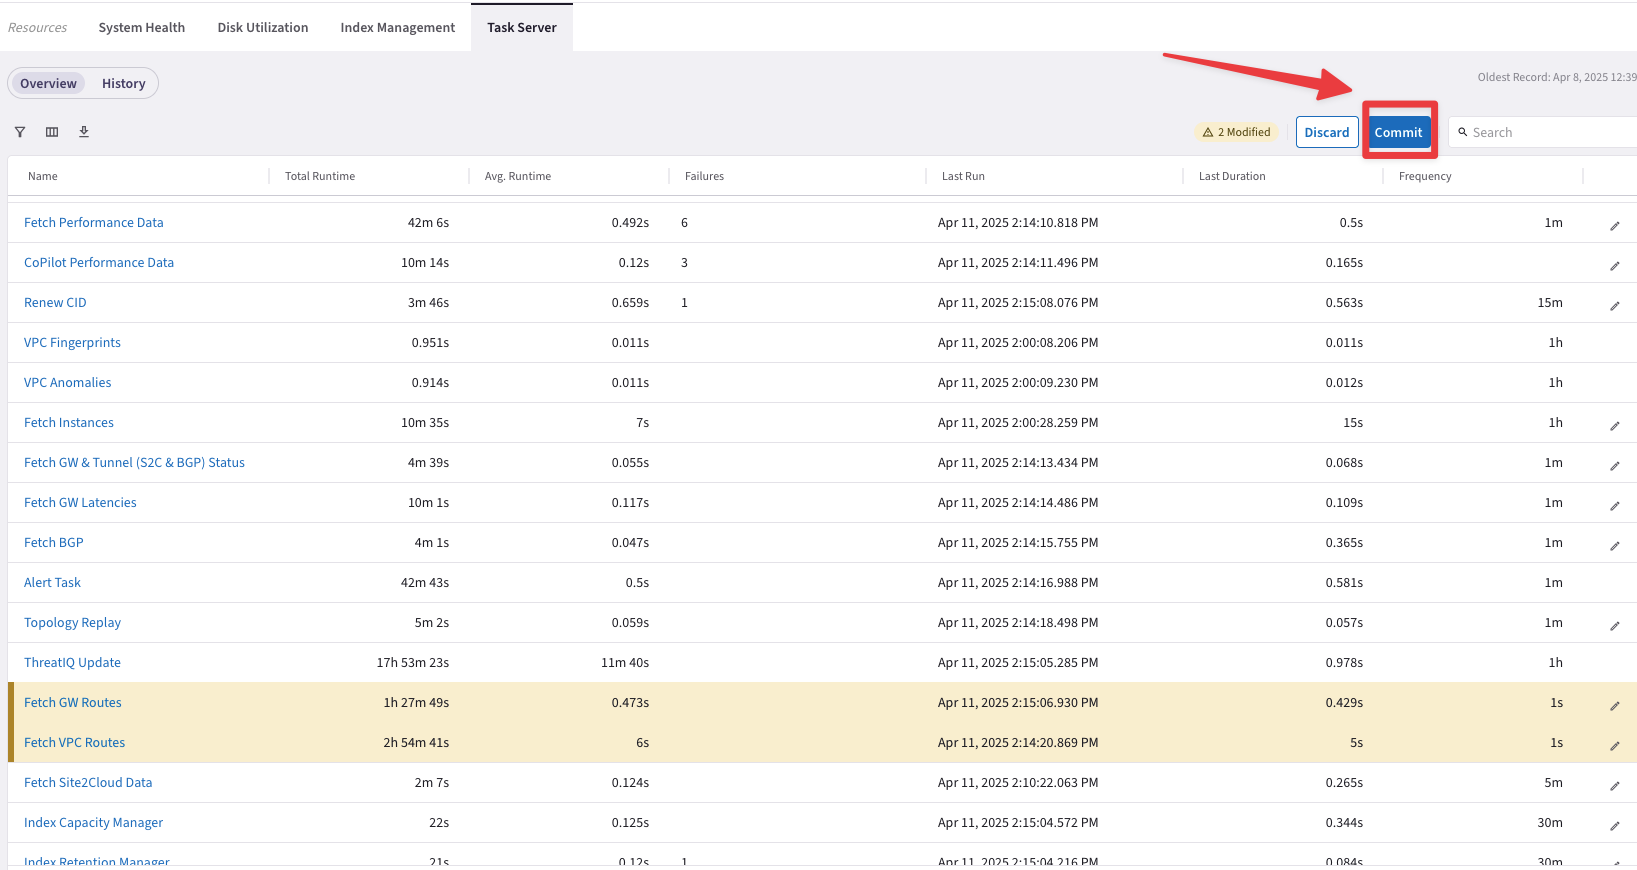
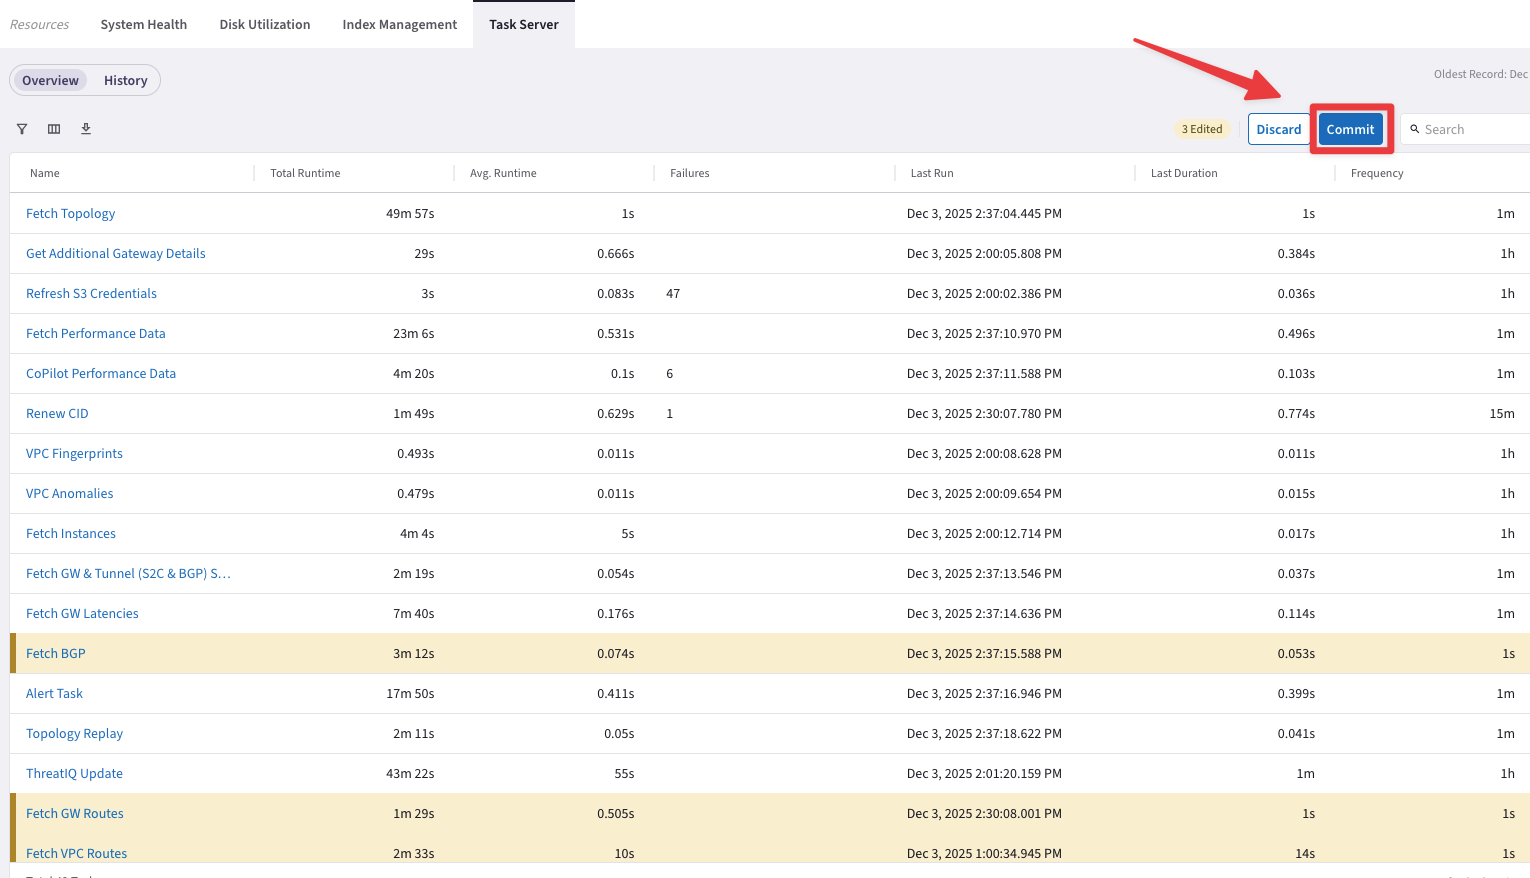
update for ops

diff --git a/ace_ops/docs/lab1.md b/ace_ops/docs/lab1.md
@@ -4,7 +4,7 @@
 
 The infrastructure has recently been divided into two network domains: **BU1** and **BU2**.
 
-Please verify the segregation between these two domains, as implemented through the `Aviatrix Cloud Native Security Fabric`.
+Please verify the segregation between these two domains, as implemented through the `Aviatrix Cloud Native Security Fabric (CNSF)`.
 
 ```{figure} images/lab1-segmentation.png
 ---
@@ -16,8 +16,8 @@ Initial Topology
 
 ## 2. VALIDATION REQUEST
 
-* Navigate to **CoPilot > Settings > Resources > Task Server**. 
-  * Ensure that both `Fetch GW Routes` and `Fetch VPC Routes` intervals are set to `1 second`. Then, click **Save** to apply the changes.
+* Navigate to **CoPilot > Settings > Resources > Task Server**.
+  * Ensure that `Fetch GW Routes`, `Fetch VPC Routes` and `Fetch BGP` intervals are set to `1 second`. Then, click **Save** to apply the changes.
 
 
 ```{figure} images/lab1-task.png
@@ -40,6 +40,13 @@ Fetch GW Routes
 align: center
 ---
 Fetch VPC Routes
+```
+
+```{figure} images/lab1-fetchbgp.png
+---
+align: center
+---
+Fetch BGP
 ```
 
 After that, click on **Commit**.
@@ -301,7 +308,7 @@ Additionally, execute the **CURL** command directed at BU1 Analytics.
 
 ```{figure} images/lab1-pingok29.png
 ---
-height: 400px
+height: 250px
 align: center
 ---
 CURL
@@ -377,7 +384,7 @@ Network Domain (aka VRF)
 You will notice that the `Segmentation` feature is indeed enabled. 
 ```{figure} images/lab1-newjoe.png
 ---
-height: 400px
+height: 250px
 align: center
 ---
 RIB
@@ -393,7 +400,7 @@ Do not forget to click on **Apply**.
 
 ```{figure} images/lab1-plus.png
 ---
-height: 150px
+height: 250px
 align: center
 ---
 FlowIQ Filter
@@ -413,7 +420,7 @@ Then check the `"Flow Exporters"` widget, then from the drop-down menu select th
 
 ```{figure} images/lab1-flowiq.png
 ---
-height: 500px
+height: 400px
 align: center
 ---
 FlowIQ
@@ -446,7 +453,7 @@ The **Originator** has the egress interface that corresponds to the **eth0** int
 
 ```{figure} images/lab1-cloudroutes.png
 ---
-height: 400px
+height: 300px
 align: center
 ---
 Originator = eth0
